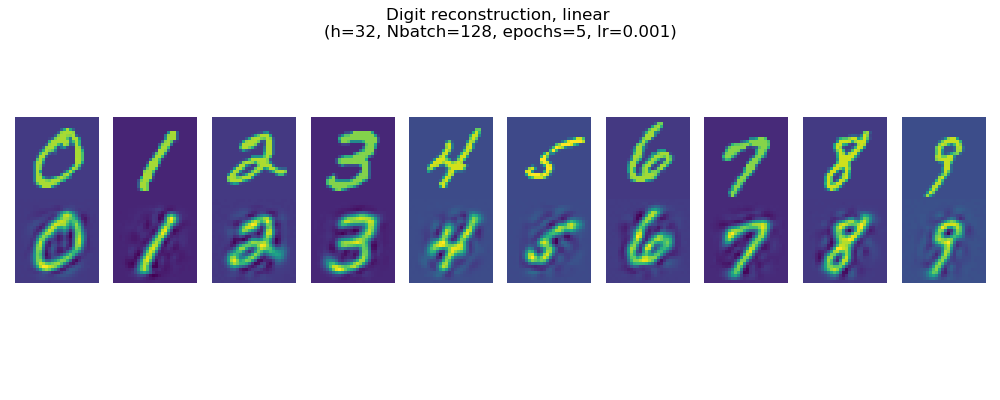
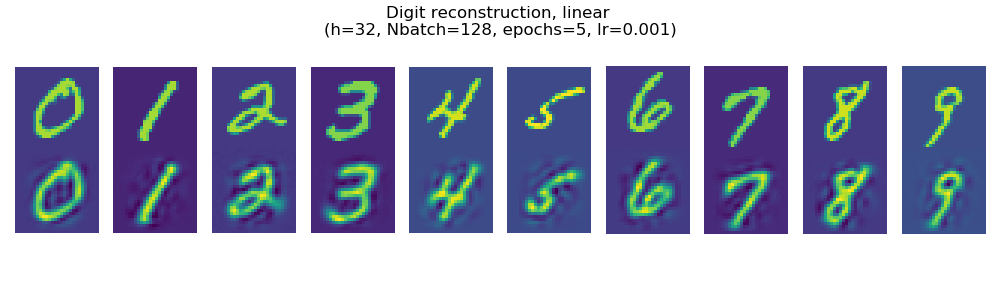
Update figsize.

Changed region(s): [[0.0, 0.51, 0.992, 0.78], [0.0, 0.21, 0.992, 0.48], [0.31, 0.03, 0.682, 0.12]]

diff --git a/HW4/HW4_code_solutions/autoencoders.py b/HW4/HW4_code_solutions/autoencoders.py
@@ -270,7 +270,7 @@ def showimages(images, interpolation="nearest"):
     axes : `matplotlib.pyplot.Axes`
         Axes
     """
-    fig, axes = plt.subplots(1, len(images), figsize=(10, 4), sharex=True, sharey=True)
+    fig, axes = plt.subplots(1, len(images), figsize=(10, 3), sharex=True, sharey=True)
     axes = np.array([axes]) if len(images) == 1 else axes
     for img, ax in zip(images, axes.ravel()):
         ax.imshow(img.cpu(), interpolation=interpolation)
